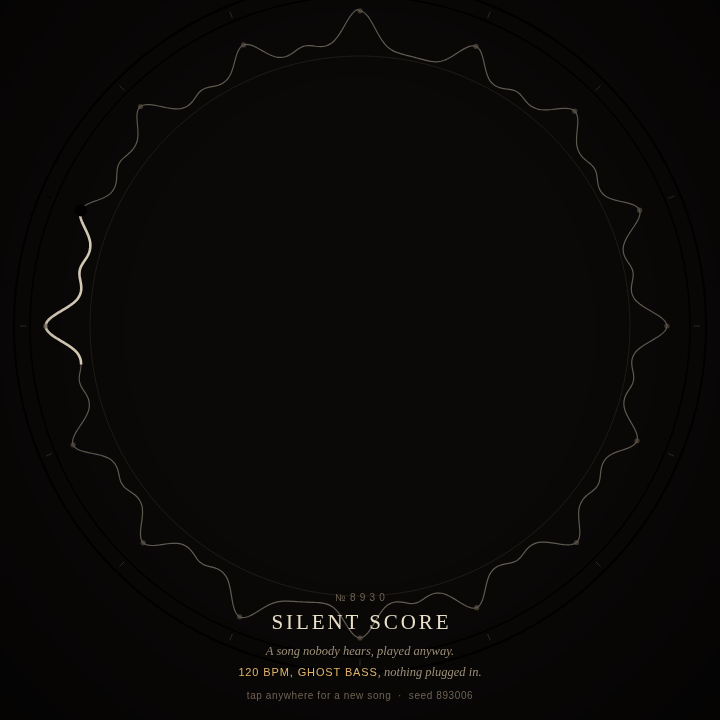
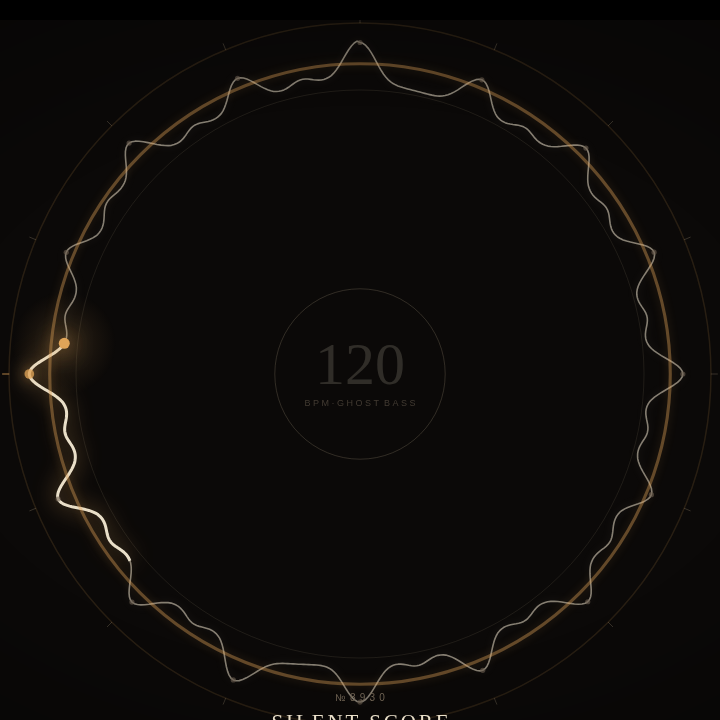
Revise 8930 Silent Score: visual improvement pass (Hans requested)

diff --git a/8930/index.html b/8930/index.html
@@ -247,6 +247,8 @@ function newSong(seed, pushURL) {
   song = makeSong(seed);
   const rnd = mulberry32(seed ^ 0x9e37);
   pal = PALETTES[Math.floor(rnd() * PALETTES.length)];
+  const _hm = pal.accent.match(/^#(..)(..)(..)$/);
+  pal.accentRgb = parseInt(_hm[1], 16) + "," + parseInt(_hm[2], 16) + "," + parseInt(_hm[3], 16);
   document.body.style.background = pal.bg;
   pulses = []; kickGlow = 0; eFast = 0; eSlow = 0; lastFire = -10;
   bpmtag.textContent = song.bpm + " BPM, GHOST BASS";
@@ -270,8 +272,8 @@ function resize() {
   canvas.width = Math.round(W * DPR); canvas.height = Math.round(H * DPR);
   ctx.setTransform(DPR, 0, 0, DPR, 0, 0);
   cx = W / 2;
-  cy = H / 2 - Math.min(H * 0.05, 34);
-  R0 = Math.min(W, H) * 0.375;
+  cy = H / 2 - Math.min(H * 0.07, 46);
+  R0 = Math.min(W, H) * 0.355;
 }
 window.addEventListener("resize", resize);
 resize();
@@ -330,7 +332,6 @@ function frame(nowMs) {
   }
   kickGlow *= Math.exp(-dt * 7);
   beatFlash *= Math.exp(-dt * 5);
-  pulses = pulses.filter(p => now - p.t0 < 0.9);
 
   ctx.clearRect(0, 0, W, H);
 
@@ -344,16 +345,31 @@ function frame(nowMs) {
   ctx.beginPath(); ctx.arc(cx, cy, R0, 0, Math.PI * 2); ctx.stroke();
   ctx.restore();
 
+  // center label: the record's label, ghostly. anchors the void.
+  ctx.save();
+  ctx.strokeStyle = "rgba(" + pal.dim + ",0.4)";
+  ctx.lineWidth = 1;
+  ctx.beginPath(); ctx.arc(cx, cy, R0 * 0.30, 0, Math.PI * 2); ctx.stroke();
+  const labelSize = Math.max(24, R0 * 0.21);
+  ctx.fillStyle = "rgba(" + pal.bone + ",0.17)";
+  ctx.font = "300 " + labelSize.toFixed(0) + "px Georgia, 'Times New Roman', serif";
+  ctx.textAlign = "center"; ctx.textBaseline = "middle";
+  ctx.fillText(String(song.bpm), cx, cy - labelSize * 0.1);
+  ctx.fillStyle = "rgba(" + pal.dim + ",0.55)";
+  ctx.font = Math.max(7, (R0 * 0.032).toFixed(0)) + "px Verdana, sans-serif";
+  ctx.fillText("B P M · G H O S T  B A S S", cx, cy + labelSize * 0.5);
+  ctx.restore();
+
   // the whole loop of the song, drawn faint
   const loop = [];
   for (let i = 0; i <= N; i++) {
     const th = -Math.PI / 2 + (i / N) * Math.PI * 2;
     loop.push(ringPoint(th, (i / N) * L));
   }
-  strokePath(loop, "rgba(" + pal.bone + ",0.42)", 1.2, 0);
+  strokePath(loop, "rgba(" + pal.bone + ",0.55)", 1.6, 10, "rgba(" + pal.bone + ",0.28)");
 
   // the recent past, bright: the part being "played" right now
-  const trailLen = 1.35 * beat;
+  const trailLen = 2.0 * beat;
   const seg = [];
   const STEPS = 160;
   for (let i = 0; i <= STEPS; i++) {
@@ -363,14 +379,23 @@ function frame(nowMs) {
     seg.push(ringPoint(th, lt));
   }
   const bone = "rgba(" + pal.bone + ",";
-  strokePath(seg, bone + "1)", 2.6, 18, "rgba(" + pal.accent + ",0.85)");
+  strokePath(seg, bone + "1)", 3, 22, "rgba(" + pal.accentRgb + ",0.9)");
+
+  // playhead position
+  const hp = ringPoint(thNow, pNow);
+
+  // playhead halo: a soft breath of light where the song is being read
+  const halo = ctx.createRadialGradient(hp[0], hp[1], 0, hp[0], hp[1], 52);
+  halo.addColorStop(0, "rgba(" + pal.accentRgb + ",0.16)");
+  halo.addColorStop(1, "rgba(" + pal.accentRgb + ",0)");
+  ctx.fillStyle = halo;
+  ctx.beginPath(); ctx.arc(hp[0], hp[1], 52, 0, Math.PI * 2); ctx.fill();
 
   // playhead
-  const hp = ringPoint(thNow, pNow);
   ctx.save();
-  ctx.fillStyle = "rgba(" + pal.accent + ",1)";
-  ctx.shadowBlur = 16; ctx.shadowColor = "rgba(" + pal.accent + ",0.9)";
-  ctx.beginPath(); ctx.arc(hp[0], hp[1], 4.2, 0, Math.PI * 2); ctx.fill();
+  ctx.fillStyle = "rgba(" + pal.accentRgb + ",1)";
+  ctx.shadowBlur = 22; ctx.shadowColor = "rgba(" + pal.accentRgb + ",0.95)";
+  ctx.beginPath(); ctx.arc(hp[0], hp[1], 5.5, 0, Math.PI * 2); ctx.fill();
   ctx.restore();
 
   // beat beads: the hidden grid, faint until struck
@@ -386,7 +411,7 @@ function frame(nowMs) {
     const tx = cx + tr * Math.cos(th), ty = cy + tr * Math.sin(th);
     ctx.save();
     ctx.strokeStyle = struck > 0.02
-      ? "rgba(" + pal.accent + "," + (0.4 + 0.6 * struck).toFixed(3) + ")"
+      ? "rgba(" + pal.accentRgb + "," + (0.4 + 0.6 * struck).toFixed(3) + ")"
       : "rgba(" + pal.dim + ",0.45)";
     ctx.lineWidth = 1;
     ctx.beginPath();
@@ -395,22 +420,27 @@ function frame(nowMs) {
     ctx.stroke();
     ctx.restore();
     ctx.save();
-    if (struck > 0.02) { ctx.shadowBlur = 14; ctx.shadowColor = "rgba(" + pal.accent + ",0.9)"; }
+    if (struck > 0.02) { ctx.shadowBlur = 14; ctx.shadowColor = "rgba(" + pal.accentRgb + ",0.9)"; }
     ctx.fillStyle = struck > 0.02
-      ? "rgba(" + pal.accent + "," + (0.4 + 0.6 * struck).toFixed(3) + ")"
+      ? "rgba(" + pal.accentRgb + "," + (0.4 + 0.6 * struck).toFixed(3) + ")"
       : "rgba(" + pal.dim + ",0.6)";
     ctx.beginPath(); ctx.arc(p[0], p[1], r, 0, Math.PI * 2); ctx.fill();
     ctx.restore();
   }
 
-  // beat pulses: tight expanding ripples fired by the detector
+  // beat pulses: tight expanding ripples fired by the detector.
+  // kept short-lived so the ring breathes with the beat instead of
+  // growing a permanent second ring (beats arrive ~every 0.5s at 120bpm)
+  const PULSE_LIFE = 0.55;
+  pulses = pulses.filter(p => now - p.t0 < PULSE_LIFE);
   for (const p of pulses) {
     const age = now - p.t0;
-    const k = age / 0.9;
-    const rr = R0 * (1.04 + age * 0.5);
+    const k = age / PULSE_LIFE;
+    const rr = R0 * (1.04 + age * 0.45);
     ctx.save();
-    ctx.strokeStyle = "rgba(" + pal.accent + "," + (0.65 * (1 - k)).toFixed(3) + ")";
-    ctx.lineWidth = 3 * (1 - k) + 0.5;
+    ctx.strokeStyle = "rgba(" + pal.accentRgb + "," + (0.5 * (1 - k)).toFixed(3) + ")";
+    ctx.lineWidth = 3 * (1 - k) + 0.75;
+    ctx.shadowBlur = 10; ctx.shadowColor = "rgba(" + pal.accentRgb + ",0.5)";
     ctx.beginPath(); ctx.arc(cx, cy, rr, 0, Math.PI * 2); ctx.stroke();
     ctx.restore();
   }
@@ -418,7 +448,7 @@ function frame(nowMs) {
   // kick swell: the whole ring breathes on the detected beat
   if (kickGlow > 0.01) {
     ctx.save();
-    ctx.strokeStyle = "rgba(" + pal.accent + "," + (0.35 * kickGlow).toFixed(3) + ")";
+    ctx.strokeStyle = "rgba(" + pal.accentRgb + "," + (0.35 * kickGlow).toFixed(3) + ")";
     ctx.lineWidth = 1.5;
     const rr = R0 * (1 + 0.22 + 0.04 * kickGlow);
     ctx.beginPath(); ctx.arc(cx, cy, rr, 0, Math.PI * 2); ctx.stroke();

diff --git a/8930/process.md b/8930/process.md
@@ -74,3 +74,27 @@ Family name recorded: "ghost-track beat-detected polar ring".
 - Static checks: no `<audio>`/WebAudio anywhere (the one "audio" hit is a
   code comment), no em dashes, no date strings, no absolute URLs in visible
   copy, viewport meta present.
+
+## Revision 2026-10-04 (Hans: "Improve 8930")
+Visual analysis: the ring was a 1.2px hairline at 42% — nearly invisible on
+phones/daylight; the playhead comet whispered instead of performing; beat
+pulses were hard to see; the center was void; caption crowded the ring.
+Worse, a real bug: `pal.accent` is hex ("#e0a458") but was interpolated into
+`rgba(...)` strings — invalid, so EVERY accent glow (trail, playhead, beads,
+pulses) had been silently rendering nothing since launch. The piece had been
+performing without its lighting.
+Changes:
+- Fixed the hex-in-rgba bug (new `pal.accentRgb` triplet); all accent glows
+  now actually render.
+- Ring: 1.6px at 55% + soft bone glow — present but calm.
+- Playhead: 5.5px dot, stronger glow, halo breath, 2-beat comet trail.
+- Beat pulses: retuned twice — first pass (0.85 alpha) created a permanent
+  second ring (beats every 0.5s at 120bpm outlasted the 0.9s fade); final:
+  0.55s life, 0.5 peak alpha — the ring breathes with the beat.
+- Center record label: ghostly BPM numerals + "BPM · GHOST BASS" in a hairline
+  circle (font scales with R0 for mobile); anchors the void, deepens the
+  vinyl metaphor.
+- Layout: R0 0.375→0.355, ring lifted, caption clears the waveform.
+QA: cdp_exceptions.py exit 0 at 1280x800, 390x844, and ?seed=777 (indigo
+palette). Thumb recaptured from the revised build. Reduced-motion still path
+untouched and intact.
